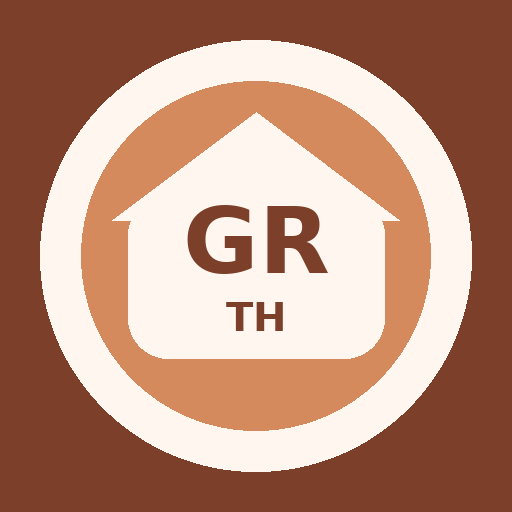
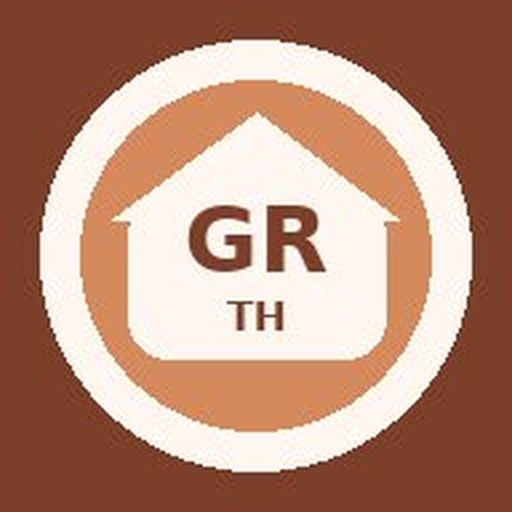
Add files via upload

diff --git a/app.js b/app.js
@@ -18,21 +18,196 @@ function counts(){let m=0,r=0,u=0; CONTENT.forEach(c=>{let s=statusOf(c.id); if(
 function toast(msg){toastEl.textContent=msg; toastEl.classList.add('show'); clearTimeout(window.toastTimer); window.toastTimer=setTimeout(()=>toastEl.classList.remove('show'),1800);}
 function esc(s){return String(s||'').replace(/[&<>"]/g, ch=>({'&':'&amp;','<':'&lt;','>':'&gt;','"':'&quot;'}[ch]));}
 
-let voices=[];
-function loadVoices(){voices = speechSynthesis.getVoices ? speechSynthesis.getVoices() : [];}
-if('speechSynthesis' in window){loadVoices(); speechSynthesis.onvoiceschanged=loadVoices;}
-function speakGreek(text){
-  if(!('speechSynthesis' in window)){toast('ไม่มีเสียงในเครื่องนี้ / Audio not available'); return;}
-  try{
-    if(!voices.length) loadVoices();
-    const v = voices.find(x => x.lang && x.lang.toLowerCase().indexOf('el') === 0);
-    if(!v){ toast('ไม่มีเสียงภาษากรีกในเครื่อง — ติดตั้งเสียงกรีกก่อน / Greek voice not found. Please install Greek text-to-speech.'); return; }
-    speechSynthesis.cancel();
-    const u = new SpeechSynthesisUtterance(text);
-    u.lang = 'el-GR'; u.voice = v; u.rate = 0.9; u.pitch = 1;
-    speechSynthesis.speak(u);
-  }catch(e){toast('เสียงกรีกไม่พร้อม / Greek audio not ready');}
+
+/* V1.6 audio engine: transplanted from the working GTA app pattern.
+   It uses native browser speech synthesis, el-GR language, Greek voice preference,
+   encoded audio button data attributes, chunking, keep-alive, watchdog reset,
+   and soft failure so buttons do not get stuck. */
+let greekVoice=null,greekVoicesReady=false;
+let audioSession=0;
+let audioKeepAliveTimer=null;
+
+function htmlDecodeAudio(s){
+  const txt=document.createElement('textarea');
+  txt.innerHTML=String(s||'');
+  return txt.value;
 }
+function encodeAudioText(text){
+  return encodeURIComponent(String(text||'').replace(/\s+/g,' ').trim());
+}
+function decodeAudioText(text){
+  try{return decodeURIComponent(String(text||''));}catch(e){return String(text||'');}
+}
+function getGreekVoice(){
+  if(!('speechSynthesis' in window))return null;
+  const voiceList=window.speechSynthesis.getVoices()||[];
+  return voiceList.find(v=>(v.lang||'').toLowerCase()==='el-gr')
+    || voiceList.find(v=>(v.lang||'').toLowerCase().startsWith('el'))
+    || voiceList.find(v=>/greek|ελλην/i.test(v.name||''))
+    || null;
+}
+function refreshGreekVoice(){
+  greekVoice=getGreekVoice()||greekVoice;
+  greekVoicesReady=true;
+  document.querySelectorAll('.js-audio').forEach(btn=>{
+    const label=btn.dataset.label||btn.textContent||'🔊 Hear Greek';
+    btn.disabled=false;
+    btn.classList.remove('audioDisabled');
+    if(!btn.dataset.playing)btn.textContent=label;
+    btn.title=greekVoice
+      ? ('Greek voice: '+(greekVoice.name||greekVoice.lang||'el-GR'))
+      : 'Hear Greek. If the voice sounds wrong, check the device Greek voice settings.';
+  });
+}
+function audioButton(text,label='🔊 Hear Greek'){
+  const raw=String(text||'').replace(/\s+/g,' ').trim();
+  if(!raw)return '';
+  const safeLabel=esc(label||'🔊 Hear Greek');
+  const packed=encodeAudioText(raw);
+  return `<button type="button" class="tiny-btn audioBtn js-audio" data-label="${safeLabel}" data-speak="${packed}">${safeLabel}</button>`;
+}
+function splitSpeechText(text){
+  const clean=htmlDecodeAudio(String(text||'')).replace(/\s+/g,' ').trim();
+  if(!clean)return [];
+  const sentenceParts=clean.split(/(?<=[.!;;?])\s+/).filter(Boolean);
+  const chunks=[];
+  sentenceParts.forEach(part=>{
+    let p=part.trim();
+    while(p.length>95){
+      let cut=Math.max(p.lastIndexOf(' ',95),p.lastIndexOf(',',95),p.lastIndexOf('·',95));
+      if(cut<35)cut=95;
+      chunks.push(p.slice(0,cut).trim());
+      p=p.slice(cut).trim();
+    }
+    if(p)chunks.push(p);
+  });
+  return chunks;
+}
+function stopAudioKeepAlive(){
+  if(audioKeepAliveTimer){clearInterval(audioKeepAliveTimer);audioKeepAliveTimer=null;}
+}
+function startAudioKeepAlive(mySession){
+  stopAudioKeepAlive();
+  audioKeepAliveTimer=setInterval(()=>{
+    if(mySession!==audioSession){stopAudioKeepAlive();return;}
+    try{
+      if(window.speechSynthesis && window.speechSynthesis.speaking && window.speechSynthesis.paused){
+        window.speechSynthesis.resume();
+      }
+    }catch(e){}
+  },300);
+}
+function setAudioButtonState(btn,state){
+  if(!btn)return;
+  const label=btn.dataset.label||'🔊 Hear Greek';
+  if(state==='playing'){
+    btn.dataset.playing='1';
+    btn.textContent='🔊 Playing...';
+    btn.disabled=true;
+  }else{
+    delete btn.dataset.playing;
+    btn.textContent=label;
+    btn.disabled=false;
+  }
+}
+function speak(text,btn,opts={}){
+  if(!('speechSynthesis' in window)){
+    toast('ไม่มีเสียงในเครื่องนี้ / Audio not supported');
+    setAudioButtonState(btn,'idle');
+    return;
+  }
+  const chunks=splitSpeechText(text);
+  if(!chunks.length){setAudioButtonState(btn,'idle');return;}
+  const mySession=++audioSession;
+  const rate=opts.rate||0.86;
+
+  try{window.speechSynthesis.cancel();}catch(e){}
+  try{window.speechSynthesis.resume&&window.speechSynthesis.resume();}catch(e){}
+  greekVoice=getGreekVoice()||greekVoice;
+
+  setAudioButtonState(btn,'playing');
+  startAudioKeepAlive(mySession);
+
+  let index=0;
+  let watchdog=null;
+
+  function cleanup(){
+    if(watchdog)clearTimeout(watchdog);
+    stopAudioKeepAlive();
+    setAudioButtonState(btn,'idle');
+  }
+  function failSoft(){
+    if(mySession!==audioSession)return;
+    try{window.speechSynthesis.cancel();}catch(e){}
+    cleanup();
+    toast('เสียงกรีกไม่พร้อม / Greek audio did not start. Try again or check Greek voice settings.');
+  }
+  function playNext(){
+    if(mySession!==audioSession)return;
+    if(index>=chunks.length){cleanup();return;}
+
+    const chunk=chunks[index++];
+    const utterance=new SpeechSynthesisUtterance(chunk);
+    utterance.lang='el-GR';
+    if(greekVoice)utterance.voice=greekVoice;
+    utterance.rate=rate;
+    utterance.pitch=1;
+    utterance.volume=1;
+
+    let finished=false;
+    utterance.onend=function(){
+      finished=true;
+      if(watchdog)clearTimeout(watchdog);
+      setTimeout(playNext,70);
+    };
+    utterance.onerror=function(){
+      finished=true;
+      if(watchdog)clearTimeout(watchdog);
+      setTimeout(playNext,120);
+    };
+    if(watchdog)clearTimeout(watchdog);
+    watchdog=setTimeout(()=>{
+      if(mySession!==audioSession||finished)return;
+      try{window.speechSynthesis.resume&&window.speechSynthesis.resume();}catch(e){}
+      setTimeout(()=>{ if(mySession===audioSession&&!finished) failSoft(); },900);
+    }, Math.max(3500, chunk.length*120));
+
+    try{window.speechSynthesis.speak(utterance);}catch(e){setTimeout(playNext,120);}
+  }
+  setTimeout(playNext,40);
+}
+function speakGreek(text,btn=null){
+  speak(String(text||''),btn);
+}
+function testGreekVoice(){
+  refreshGreekVoice();
+  const voiceName=greekVoice ? `${greekVoice.name || 'Greek voice'} (${greekVoice.lang || 'el-GR'})` : 'No explicit Greek voice listed; browser will use el-GR request.';
+  toast('Greek voice test: '+voiceName);
+  speakGreek('Καλημέρα. Γεια σας. Ευχαριστώ πολύ.');
+}
+if('speechSynthesis' in window){
+  window.speechSynthesis.onvoiceschanged=refreshGreekVoice;
+  document.addEventListener('visibilitychange',()=>{
+    if(!document.hidden){
+      try{window.speechSynthesis.resume&&window.speechSynthesis.resume();}catch(e){}
+    }
+  });
+  setTimeout(refreshGreekVoice,0);
+  setTimeout(refreshGreekVoice,250);
+  setTimeout(refreshGreekVoice,800);
+  setTimeout(refreshGreekVoice,1600);
+  setTimeout(refreshGreekVoice,3000);
+}
+document.addEventListener('click',function(e){
+  const btn=e.target.closest('.js-audio');
+  if(!btn)return;
+  e.preventDefault();
+  e.stopPropagation();
+  refreshGreekVoice();
+  try{window.speechSynthesis&&window.speechSynthesis.cancel();}catch(e){}
+  speak(decodeAudioText(btn.dataset.speak||''),btn);
+});
+
 async function startRec(id){
   if(!navigator.mediaDevices || !window.MediaRecorder){toast('ไม่สามารถบันทึกเสียงได้ / Recording is not available'); return;}
   try{ const stream=await navigator.mediaDevices.getUserMedia({audio:true}); chunks=[]; recordingFor=id; mediaRecorder=new MediaRecorder(stream); mediaRecorder.ondataavailable=e=>{if(e.data.size)chunks.push(e.data)}; mediaRecorder.onstop=()=>{const blob=new Blob(chunks,{type:'audio/webm'}); recordings[recordingFor]=URL.createObjectURL(blob); stream.getTracks().forEach(t=>t.stop()); toast('บันทึกแล้ว / Saved recording'); render();}; mediaRecorder.start(); toast('กำลังบันทึกเสียง / Recording...'); render(); }
@@ -46,8 +221,8 @@ function header(title,sub=''){return `<div class="screen-head"><button class="ba
 function go(s){screen=s; activeGroup='all'; matchState=null; gameState=null; render(); window.scrollTo(0,0)}
 
 function renderHome(){const c=counts(); const today=CONTENT.filter(x=>['start_good_morning','start_no_understand','talking_want_water'].includes(x.id)); app.innerHTML=`
- <div class="topbar"><div class="brand-block"><h1>Greek Daily Companion</h1><p>Thai Mode · ภาษากรีกสำหรับชีวิตประจำวัน</p></div><div class="badge">V1</div></div>
- <section class="hero"><h2>Start Today<br>เริ่มวันนี้</h2><p>Listen, see, tap, repeat. Greek with Thai and English support.</p><button class="primary-btn" onclick="startToday()">▶ เริ่มวันนี้ / Start Today</button></section>
+ <div class="topbar"><div class="brand-block"><h1>Greek Daily Companion</h1><p>Thai Mode · ภาษากรีกสำหรับชีวิตประจำวัน</p></div><div class="badge">V1.6</div></div>
+ <section class="hero"><h2>Start Today<br>เริ่มวันนี้</h2><p>Listen, see, tap, repeat. Greek with Thai and English support.</p><button class="primary-btn" onclick="startToday()">▶ เริ่มวันนี้ / Start Today</button><button class="secondary-btn" onclick="testGreekVoice()">🔊 Test Greek Voice</button></section>
  <div class="section-title"><h2>Progress</h2><span>${c.total} cards</span></div><div class="stats-row"><div class="stat-card"><strong>${c.m}</strong><span>Mastered</span></div><div class="stat-card"><strong>${c.r}</strong><span>Needs Review</span></div><div class="stat-card"><strong>${c.u}</strong><span>Unmarked</span></div></div>
  <div class="section-title"><h2>Learn</h2><span>4 modes</span></div><div class="grid">
  ${modeCard('🎙️','Speak Now','พูดตอนนี้','Say useful Greek immediately.','speak')}
@@ -59,14 +234,14 @@ function renderHome(){const c=counts(); const today=CONTENT.filter(x=>['start_go
  <div class="section-title"><h2>Review Stack</h2><span>${c.r} cards</span></div><button class="lesson-card" onclick="go('review')"><h3>🔁 Practice Needs Review</h3><p>Cards marked ต้องฝึกอีก appear here automatically.</p></button>
  ` + bottomNav();}
 function modeCard(emoji,title,thai,desc,target){return `<button class="mode-card" onclick="go('${target}')"><div class="emoji">${emoji}</div><div><h3>${title}<br>${thai}</h3><p>${desc}</p></div></button>`}
-function miniPhrase(x){return `<div class="mini-phrase"><button class="tiny-btn" onclick="speakGreek('${esc(x.greek)}')">▶ ฟัง</button><strong>${esc(x.greek)}</strong><small>${esc(x.thai)}<br>${esc(x.english)}</small></div>`}
+function miniPhrase(x){return `<div class="mini-phrase">${audioButton(x.greek,'▶ ฟัง')}<strong>${esc(x.greek)}</strong><small>${esc(x.thai)}<br>${esc(x.english)}</small></div>`}
 function startToday(){gameState={type:'daily',deck:sample(byMode('play'),5),i:0,score:0,stage:'q'}; screen='game'; render();}
 function renderList(mode,title,sub){let cards=byMode(mode); if(activeGroup!=='all')cards=cards.filter(c=>c.group===activeGroup); app.innerHTML=header(title,sub)+filters()+`<div class="card-list">${cards.map(cardHTML).join('')}</div>`+bottomNav();}
 function filters(){return `<div class="filter-row">${GROUPS.map(([g,n])=>`<button class="pill-btn ${activeGroup===g?'active':''}" onclick="activeGroup='${g}';render()">${n}</button>`).join('')}</div>`}
-function cardHTML(x){const st=statusOf(x.id); const rec=recordings[x.id]; return `<article class="content-card ${st}" id="card-${x.id}"><div class="card-top"><div class="pic">${x.image}</div><div class="card-main"><p class="greek">${esc(x.greek)}</p><p class="pron">${esc(x.thaiPronunciation)}</p><p class="thai">${esc(x.thai)}</p><p class="eng">${esc(x.english)}</p><p class="use">${esc(x.use)}</p></div></div><div class="actions"><button class="tiny-btn" onclick="speakGreek('${esc(x.greek)}')">▶ Greek</button><button class="tiny-btn" onclick="startRec('${x.id}')">🎙 Record</button><button class="tiny-btn" onclick="stopRec()">⏹ Stop</button><button class="tiny-btn" onclick="playRec('${x.id}')">▶ My Voice</button></div><div class="status-row"><button class="status-btn mastered ${st==='mastered'?'active':''}" onclick="setStatus('${x.id}','mastered')">จำได้แล้ว<br>Mastered</button><button class="status-btn review ${st==='review'?'active':''}" onclick="setStatus('${x.id}','review')">ต้องฝึกอีก<br>Needs Review</button><button class="status-btn unmarked ${st==='unmarked'?'active':''}" onclick="setStatus('${x.id}','unmarked')">ยังไม่เลือก<br>Unmarked</button></div></article>`}
+function cardHTML(x){const st=statusOf(x.id); const rec=recordings[x.id]; return `<article class="content-card ${st}" id="card-${x.id}"><div class="card-top"><div class="pic">${x.image}</div><div class="card-main"><p class="greek">${esc(x.greek)}</p><p class="pron">${esc(x.thaiPronunciation)}</p><p class="thai">${esc(x.thai)}</p><p class="eng">${esc(x.english)}</p><p class="use">${esc(x.use)}</p></div></div><div class="actions">${audioButton(x.greek,'▶ Greek')}<button class="tiny-btn" onclick="startRec('${x.id}')">🎙 Record</button><button class="tiny-btn" onclick="stopRec()">⏹ Stop</button><button class="tiny-btn" onclick="playRec('${x.id}')">▶ My Voice</button></div><div class="status-row"><button class="status-btn mastered ${st==='mastered'?'active':''}" onclick="setStatus('${x.id}','mastered')">จำได้แล้ว<br>Mastered</button><button class="status-btn review ${st==='review'?'active':''}" onclick="setStatus('${x.id}','review')">ต้องฝึกอีก<br>Needs Review</button><button class="status-btn unmarked ${st==='unmarked'?'active':''}" onclick="setStatus('${x.id}','unmarked')">ยังไม่เลือก<br>Unmarked</button></div></article>`}
 
 function newMatch(kind='mixed'){const pool = kind==='numbers'?CONTENT.filter(c=>c.group==='numbers'):kind==='directions'?CONTENT.filter(c=>c.group==='directions'):byMode('match'); const answer=pool[Math.floor(Math.random()*pool.length)]; const choices=sample(pool.filter(c=>c.id!==answer.id),3).concat(answer).sort(()=>Math.random()-.5); matchState={kind,answer,choices,attempts:0,feedback:'',reveal:false}; setTimeout(()=>speakGreek(answer.greek),200)}
-function renderMatch(){if(!matchState)newMatch('mixed'); const m=matchState; const mode=m.kind==='numbers'?'Number Tap':m.kind==='directions'?'Left / Right':m.kind==='picture'?'Picture Match':'Greek Audio → Meaning'; app.innerHTML=header('Matching / จับคู่',mode)+`<div class="grid"><button class="tiny-btn" onclick="newMatch('mixed');render()">Mixed</button><button class="tiny-btn" onclick="newMatch('numbers');render()">Numbers</button><button class="tiny-btn" onclick="newMatch('directions');render()">Directions</button><button class="tiny-btn" onclick="newMatch('picture');render()">Pictures</button></div><div class="match-box"><div class="prompt-text"><p>Listen first. ฟังก่อน</p><button class="secondary-btn" onclick="speakGreek('${esc(m.answer.greek)}')">▶ Play Greek</button>${m.kind==='picture'?`<div class="prompt-pic">${m.answer.image}</div>`:''}</div><div class="choices">${m.choices.map(ch=>choiceHTML(ch,m.kind)).join('')}</div><div class="feedback">${m.feedback||''}</div>${m.reveal?revealHTML(m.answer):''}</div>`+bottomNav();}
+function renderMatch(){if(!matchState)newMatch('mixed'); const m=matchState; const mode=m.kind==='numbers'?'Number Tap':m.kind==='directions'?'Left / Right':m.kind==='picture'?'Picture Match':'Greek Audio → Meaning'; app.innerHTML=header('Matching / จับคู่',mode)+`<div class="grid"><button class="tiny-btn" onclick="newMatch('mixed');render()">Mixed</button><button class="tiny-btn" onclick="newMatch('numbers');render()">Numbers</button><button class="tiny-btn" onclick="newMatch('directions');render()">Directions</button><button class="tiny-btn" onclick="newMatch('picture');render()">Pictures</button></div><div class="match-box"><div class="prompt-text"><p>Listen first. ฟังก่อน</p>${audioButton(m.answer.greek,'▶ Play Greek')}${m.kind==='picture'?`<div class="prompt-pic">${m.answer.image}</div>`:''}</div><div class="choices">${m.choices.map(ch=>choiceHTML(ch,m.kind)).join('')}</div><div class="feedback">${m.feedback||''}</div>${m.reveal?revealHTML(m.answer):''}</div>`+bottomNav();}
 function choiceHTML(ch,kind){let label=kind==='picture'?`<span class="big">${ch.image}</span><span>${esc(ch.english)}</span>`:kind==='numbers'?`<span class="big">${ch.image}</span><span>${esc(ch.thai)}</span>`:`<span>${esc(ch.thai)}</span><small>${esc(ch.english)}</small>`; return `<button class="choice-btn" onclick="checkMatch('${ch.id}')">${label}</button>`}
 function checkMatch(id){const m=matchState; if(id===m.answer.id){m.feedback='ถูกต้อง / Correct'; m.reveal=true; setStatusNoRender(m.answer.id,'mastered'); render(); return;} m.attempts++; if(m.attempts===1){m.feedback='ลองอีกครั้ง / Try again'; speakGreek(m.answer.greek);} else if(m.attempts===2){m.feedback='Hint: look at the picture / ดูรูปภาพ'; speakGreek(m.answer.greek);} else {m.feedback='Added to Review Stack'; m.reveal=true; setStatusNoRender(m.answer.id,'review');} render();}
 function setStatusNoRender(id,status){statuses[id]=status; saveStatuses();}
@@ -74,7 +249,7 @@ function revealHTML(x){return `<div class="answer-reveal"><strong>${esc(x.greek)
 
 function renderPlay(){if(gameState)return renderGame(); const games=[['daily','⭐','Daily 5','5 useful cards only.'],['picture','🖼️','Picture Match','Hear Greek, tap the picture.'],['numbers','🔢','Number Tap','Hear the number, tap it.'],['directions','⬅️','Left / Right Game','Practice arrows and positions.'],['cafe','☕','Café Order Game','Practice Veneti-style orders.'],['restaurant','🌶️','Restaurant Game','Spicy, pork, shrimp, bill.'],['repeat','🎙️','Hear & Repeat Star','Record yourself and replay.'],['review','🔁','Review Rescue','Practice Needs Review cards.']]; app.innerHTML=header('Play Mode / เล่น','Small games, no pressure')+`<div class="grid">${games.map(g=>`<button class="game-card" onclick="startGame('${g[0]}')"><div class="emoji">${g[1]}</div><h3>${g[2]}</h3><p>${g[3]}</p></button>`).join('')}</div>`+bottomNav();}
 function startGame(type){let pool=byMode('play'); if(type==='numbers')pool=CONTENT.filter(c=>c.group==='numbers'); if(type==='directions')pool=CONTENT.filter(c=>c.group==='directions'); if(type==='cafe')pool=CONTENT.filter(c=>c.group==='cafe'); if(type==='restaurant')pool=CONTENT.filter(c=>c.group==='restaurant'); if(type==='review')pool=CONTENT.filter(c=>statusOf(c.id)==='review'); if(type==='picture')pool=CONTENT.filter(c=>['numbers','directions','cafe','restaurant','foodhome','oneword'].includes(c.group)); if(!pool.length){toast('No cards yet / ยังไม่มีการ์ด'); return;} gameState={type,deck:sample(pool,Math.min(5,pool.length)),i:0,score:0,stage:'q'}; screen='game'; render();}
-function renderGame(){const g=gameState, x=g.deck[g.i]; if(!x){const total=g.deck.length; app.innerHTML=header('Game Complete / เสร็จแล้ว','Good practice')+`<div class="empty-card"><span class="emoji">⭐</span><h2>${g.score}/${total}</h2><p>Great work. เก่งมากค่ะ</p><button class="secondary-btn" onclick="gameState=null;go('play')">Back to Play</button></div>`+bottomNav(); return;} let choices=sample(CONTENT.filter(c=>c.id!==x.id && (g.type==='numbers'?c.group==='numbers':g.type==='directions'?c.group==='directions':true)),3).concat(x).sort(()=>Math.random()-.5); app.innerHTML=header('Play Mode / เล่น',`${g.i+1}/${g.deck.length}`)+`<div class="match-box"><div class="prompt-text"><div class="prompt-pic">${x.image}</div><button class="secondary-btn" onclick="speakGreek('${esc(x.greek)}')">▶ Hear Greek</button>${g.type==='repeat'?cardHTML(x):`<div class="choices">${choices.map(ch=>`<button class="choice-btn" onclick="checkGame('${ch.id}')"><span class="big">${ch.image}</span><span>${esc(ch.thai)}</span><small>${esc(ch.english)}</small></button>`).join('')}</div>`}<div class="feedback">${g.feedback||''}</div>${g.reveal?revealHTML(x):''}</div></div>`+bottomNav(); setTimeout(()=>speakGreek(x.greek),200)}
+function renderGame(){const g=gameState, x=g.deck[g.i]; if(!x){const total=g.deck.length; app.innerHTML=header('Game Complete / เสร็จแล้ว','Good practice')+`<div class="empty-card"><span class="emoji">⭐</span><h2>${g.score}/${total}</h2><p>Great work. เก่งมากค่ะ</p><button class="secondary-btn" onclick="gameState=null;go('play')">Back to Play</button></div>`+bottomNav(); return;} let choices=sample(CONTENT.filter(c=>c.id!==x.id && (g.type==='numbers'?c.group==='numbers':g.type==='directions'?c.group==='directions':true)),3).concat(x).sort(()=>Math.random()-.5); app.innerHTML=header('Play Mode / เล่น',`${g.i+1}/${g.deck.length}`)+`<div class="match-box"><div class="prompt-text"><div class="prompt-pic">${x.image}</div>${audioButton(x.greek,'▶ Hear Greek')}${g.type==='repeat'?cardHTML(x):`<div class="choices">${choices.map(ch=>`<button class="choice-btn" onclick="checkGame('${ch.id}')"><span class="big">${ch.image}</span><span>${esc(ch.thai)}</span><small>${esc(ch.english)}</small></button>`).join('')}</div>`}<div class="feedback">${g.feedback||''}</div>${g.reveal?revealHTML(x):''}</div></div>`+bottomNav(); setTimeout(()=>speakGreek(x.greek),200)}
 function checkGame(id){const g=gameState,x=g.deck[g.i]; if(id===x.id){g.score++; g.feedback='ถูกต้อง / Correct'; setStatusNoRender(x.id,'mastered'); g.i++; setTimeout(render,350);} else {g.feedback='ลองอีกครั้ง / Try again'; setStatusNoRender(x.id,'review'); speakGreek(x.greek); render();}}
 
 function renderReview(){let cards=CONTENT.filter(c=>statusOf(c.id)==='review'); app.innerHTML=header('Review Stack / ทบทวนอีกครั้ง',`${cards.length} cards need practice`)+(cards.length?`<div class="card-list">${cards.map(cardHTML).join('')}</div>`:`<div class="empty-card"><span class="emoji">🌟</span><h2>No Review Cards</h2><p>Needs Review cards will appear here automatically.</p></div>`)+bottomNav();}

diff --git a/index.html b/index.html
@@ -1,11 +1,12 @@
 <!doctype html>
-<html lang="en">
+<html lang="en" class="notranslate" translate="no">
 <head>
   <meta charset="utf-8" />
   <meta name="viewport" content="width=device-width, initial-scale=1, viewport-fit=cover" />
   <title>Greek Daily Companion — Thai Mode</title>
   <meta name="description" content="Audio-first Greek learning for daily life with Thai and English support." />
   <meta name="theme-color" content="#7b3f2a" />
+  <meta name="google" content="notranslate" />
   <meta name="mobile-web-app-capable" content="yes" />
   <meta name="apple-mobile-web-app-capable" content="yes" />
   <meta name="apple-mobile-web-app-title" content="Greek Thai" />

diff --git a/sw.js b/sw.js
@@ -1,4 +1,4 @@
-const CACHE_NAME = 'greek-daily-thai-v1-0-1';
+const CACHE_NAME = 'greek-daily-thai-v1-6-gta-audio';
 const ASSETS = [
   './',
   './index.html',

diff --git a/README.md b/README.md
@@ -1,67 +1,50 @@
 # Greek Daily Companion — Thai Mode
 
 ## Version
-V1.1 — Translator / Saved Phrases Build
+V1.6 — GTA Audio Engine Patch
 
 ## Build Date
-June 10, 2026
+June 12, 2026
 
-## Purpose
-Greek Daily Companion — Thai Mode is a simple, audio-first and picture-first Greek learning app for a Thai speaker living in a Greek home. It supports Greek, Thai, and English so the learner can understand the meaning and the household can check the phrase accuracy.
+## What changed in V1.6
+- Replaced the simpler Thai-mode audio engine with the more mature GTA-style Greek audio engine.
+- Added encoded audio button data attributes instead of relying only on inline `speakGreek(...)` strings.
+- Added speech chunking, hard reset, keep-alive/resume, watchdog reset, and soft failure handling.
+- Added a visible **Test Greek Voice** button on the dashboard.
+- Updated app badge to V1.6.
+- Added missing `icon-512.png`; the old service worker referenced it but the uploaded ZIP only had `icon-192.png`, which could break PWA caching.
+- Updated service worker cache name to force the browser to load the new files.
+- Added `notranslate` protection to reduce Chrome/Google Translate interference.
 
-## Main Features
-- Home dashboard with simple daily practice
-- Speak Now mode
-- Vocab mode with pictures/icons
-- Matching mode
-- Play mode
+## Why this patch exists
+The Greek-Thai build was not truly using the same audio engine as the GTA app. The GTA app has a more robust Greek speech system that handles Safari/Chrome speech stalls better. This patch brings that GTA-style approach into Greek Daily Companion.
+
+## Important testing notes
+1. Upload the full folder to GitHub Pages or another HTTPS host.
+2. Open the app in the browser.
+3. Hard refresh or clear site data if an older build was loaded before.
+4. Tap **Test Greek Voice**.
+5. It should read: `Καλημέρα. Γεια σας. Ευχαριστώ πολύ.`
+6. If the voice still sounds robotic, check the OS/browser Greek voice settings. The app can request `el-GR`, but the final sound comes from the device/browser TTS engine.
+
+## Included files
+- `index.html`
+- `styles.css`
+- `app.js`
+- `manifest.webmanifest`
+- `sw.js`
+- `README.md`
+- `icon-192.png`
+- `icon-512.png`
+
+## Core features
+- Speak Now
+- Vocab
+- Matching
+- Play Mode
 - Review Stack
-- Mastered / Needs Review / Unmarked status buttons
-- Status color changes and localStorage persistence
-- Greek speech audio using browser speech synthesis
-- Record My Voice / Stop / Hear My Voice support with safe fallback
-- Translator / Saved Phrases mode
-- Saved phrase list stored in localStorage
-- Android/Honor-friendly PWA support
-- Home screen install support through manifest and service worker
-
-## V1.1 Changes
-- Added Translator / Saved Phrases mode
-- Added bottom navigation Save button
-- Added dashboard Translator card
-- Added search across existing app phrases
-- Added custom saved phrase entry fields for Greek, Thai, and English
-- Added audio playback for saved Greek phrases
-- Added delete function for saved phrases
-- Updated service worker cache version
-
-## Files Included
-- index.html
-- styles.css
-- app.js
-- manifest.webmanifest
-- sw.js
-- icon-192.png
-- icon-512.png
-- README.md
-
-## Install on Honor Android Phone
-1. Upload the full app folder to GitHub Pages or another HTTPS web host.
-2. Open the app link in Chrome on the Honor phone.
-3. Tap the three-dot menu.
-4. Choose Add to Home screen or Install app.
-5. Tap the app icon from the phone home screen.
-
-## Important Notes
-- Microphone recording usually requires HTTPS. It may not work from a local file.
-- Service worker and install-to-home-screen features also require HTTPS or localhost.
-- The Translator is an offline saved phrase tool. It does not automatically translate new sentences from the internet.
-- Do not keep old cached versions active when uploading a new build. After upload, hard refresh or clear site data if the old version still appears.
-
-## Content Rules
-- No George mention inside the app.
-- No phone-answering category.
-- No visitor-heavy category.
-- Café & Bakery is separate from Restaurant / Eating Out.
-- Food at Home stays short and practical.
-- Thai is primary for understanding, English is visible for checking, Greek audio is primary for learning.
+- Mastered / Needs Review / Unmarked
+- Greek audio
+- Voice recording fallback
+- LocalStorage progress
+- PWA home-screen install support